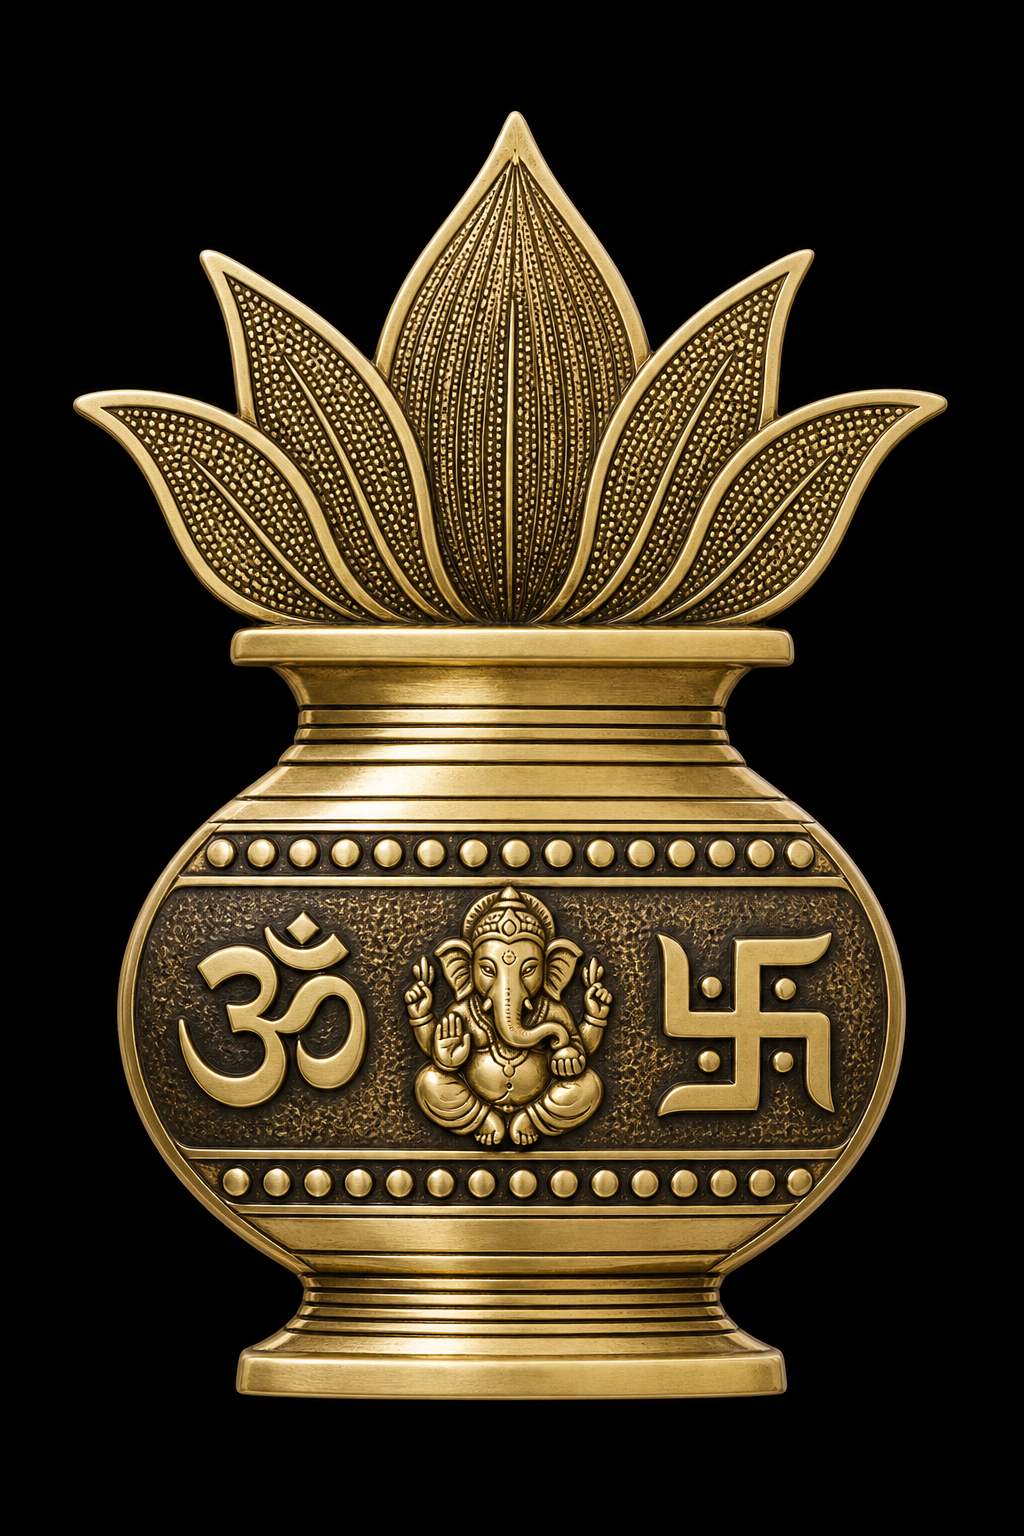
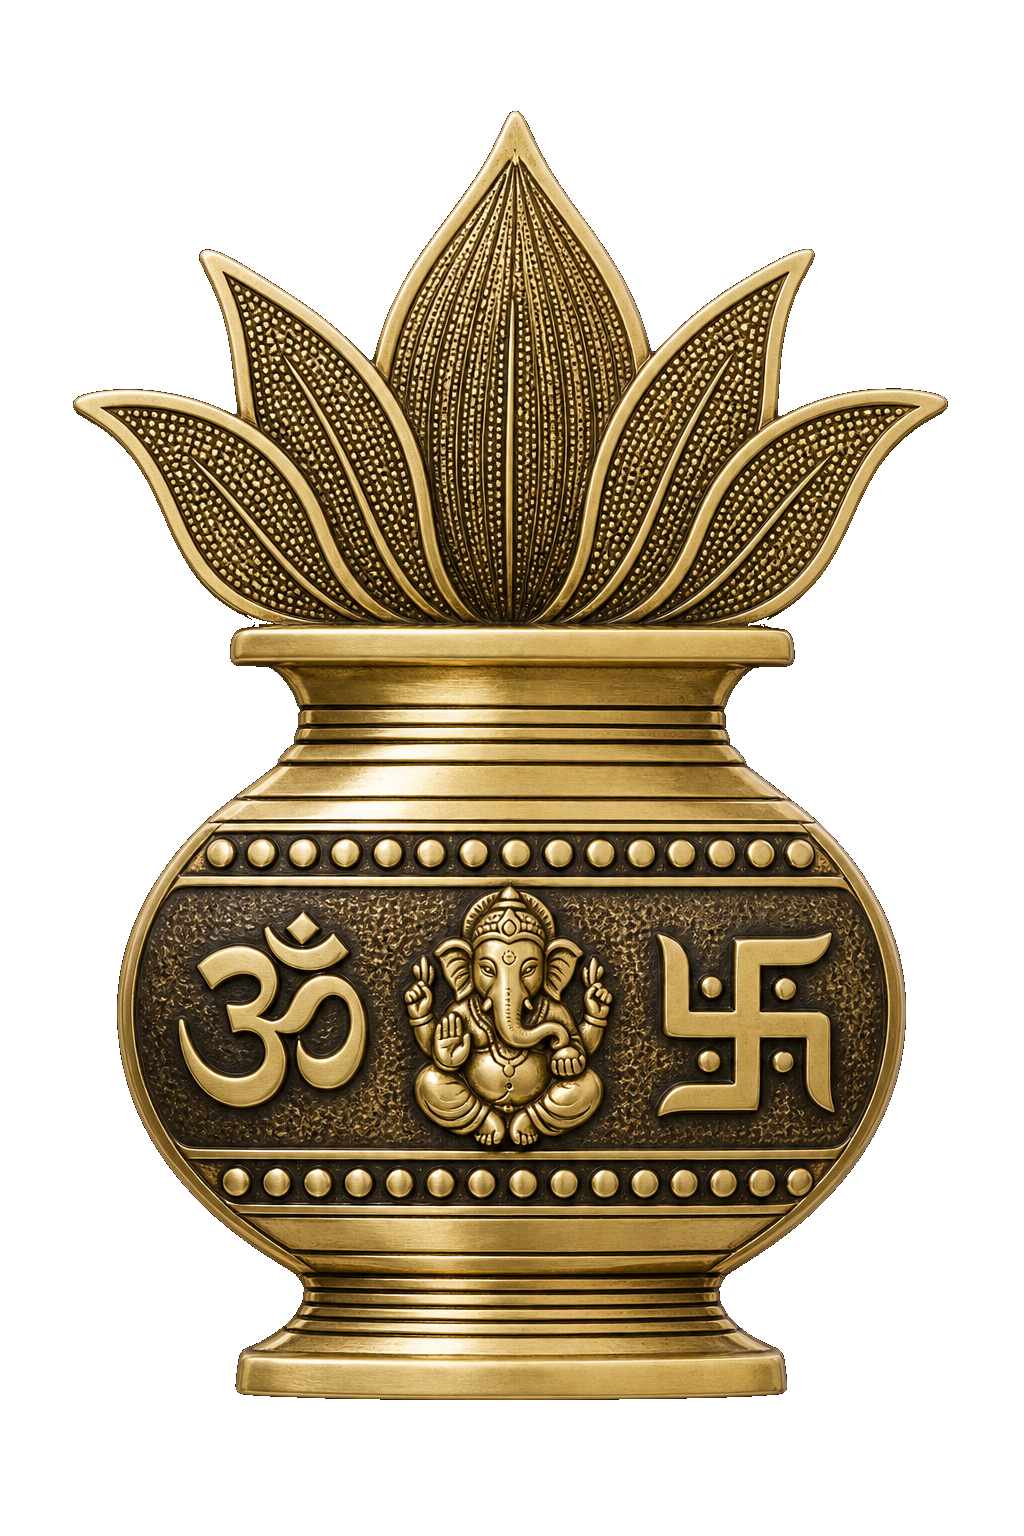
Place smaller transparent Kalash behind the Buddha.
Stacks the Kalash behind Gautama Buddha with reduced size and
opacity so the Buddha silhouette stays in front.

diff --git a/styles.css b/styles.css
@@ -149,14 +149,15 @@ a:hover {
   padding: 2rem 1.25rem;
   background: linear-gradient(
     to bottom,
-    rgba(0, 0, 0, 0.35),
-    rgba(0, 0, 0, 0.45) 45%,
-    rgba(0, 0, 0, 0.65)
+    rgba(0, 0, 0, 0.3),
+    rgba(0, 0, 0, 0.25) 35%,
+    rgba(0, 0, 0, 0.55) 68%,
+    rgba(0, 0, 0, 0.85)
   );
 }
 
 .hero-kicker {
-  margin: 0 0 0.35rem;
+  margin: 0 0 0.45rem;
   font-family: Arial, Helvetica, sans-serif;
   font-size: clamp(1.8rem, 5vw, 3.2rem);
   letter-spacing: 0.14em;
@@ -164,28 +165,41 @@ a:hover {
   text-shadow: 0 2px 16px rgba(0, 0, 0, 0.65);
 }
 
-.hero-buddha {
-  width: min(220px, 48vw);
-  height: auto;
-  margin: 0.15rem auto 0.1rem;
-  mix-blend-mode: lighten;
-  filter: drop-shadow(0 6px 20px rgba(212, 175, 55, 0.35));
-}
-
-.hero-kalash {
-  width: min(180px, 42vw);
-  height: auto;
-  margin: 0 auto 0.75rem;
-  mix-blend-mode: lighten;
-  filter: drop-shadow(0 8px 24px rgba(212, 175, 55, 0.25));
-}
-
 .hero-title {
-  margin: 0;
+  margin: 0 0 0.65rem;
   font-size: clamp(0.95rem, 2vw, 1.25rem);
   font-weight: 400;
   letter-spacing: 0.02em;
   text-shadow: 0 2px 12px rgba(0, 0, 0, 0.55);
+}
+
+.hero-emblem {
+  position: relative;
+  width: min(280px, 62vw);
+  aspect-ratio: 1;
+  margin: 0 auto;
+}
+
+.hero-kalash {
+  position: absolute;
+  z-index: 1;
+  left: 50%;
+  top: 6%;
+  width: 38%;
+  height: auto;
+  transform: translateX(-50%);
+  opacity: 0.42;
+  pointer-events: none;
+  filter: drop-shadow(0 4px 14px rgba(212, 175, 55, 0.2));
+}
+
+.hero-buddha {
+  position: relative;
+  z-index: 2;
+  width: 100%;
+  height: auto;
+  display: block;
+  filter: drop-shadow(0 8px 22px rgba(0, 0, 0, 0.45));
 }
 
 .section {
@@ -402,12 +416,14 @@ a:hover {
     height: 70vh;
   }
 
-  .hero-buddha {
-    width: min(180px, 52vw);
+  .hero-emblem {
+    width: min(230px, 70vw);
   }
 
   .hero-kalash {
-    width: min(150px, 46vw);
+    width: 34%;
+    opacity: 0.4;
+    top: 5%;
   }
 
   .footer-grid {

diff --git a/index.html b/index.html
@@ -9,7 +9,7 @@
     />
     <meta http-equiv="Cache-Control" content="no-cache, no-store, must-revalidate" />
     <title>Daiva Swasti</title>
-    <link rel="stylesheet" href="styles.css?v=10" />
+    <link rel="stylesheet" href="styles.css?v=11" />
   </head>
   <body>
     <header class="site-header">
@@ -34,22 +34,24 @@
       <section class="hero" aria-label="Hero">
         <img
           class="hero-image"
-          src="assets/hero-temple.png?v=8"
+          src="assets/hero-temple.png?v=9"
           alt="Meditating silhouette before a glowing golden mandala"
         />
         <div class="hero-overlay">
           <p class="hero-kicker">DAIVA SWASTI</p>
-          <img
-            class="hero-buddha"
-            src="assets/buddha-glow.png?v=1"
-            alt="Meditating Buddha silhouette with golden aura"
-          />
-          <img
-            class="hero-kalash"
-            src="assets/kalash-plaque.png?v=1"
-            alt="Sacred brass Kalash with Om, Ganesha, and Swastika"
-          />
           <h1 class="hero-title">स्वस्ति नो बृहस्पतिर्दधातु</h1>
+          <div class="hero-emblem">
+            <img
+              class="hero-kalash"
+              src="assets/kalash-plaque.png?v=2"
+              alt="Sacred brass Kalash with Om, Ganesha, and Swastika"
+            />
+            <img
+              class="hero-buddha"
+              src="assets/buddha-silhouette.png?v=1"
+              alt="Meditating Buddha silhouette with golden aura"
+            />
+          </div>
         </div>
       </section>
 
